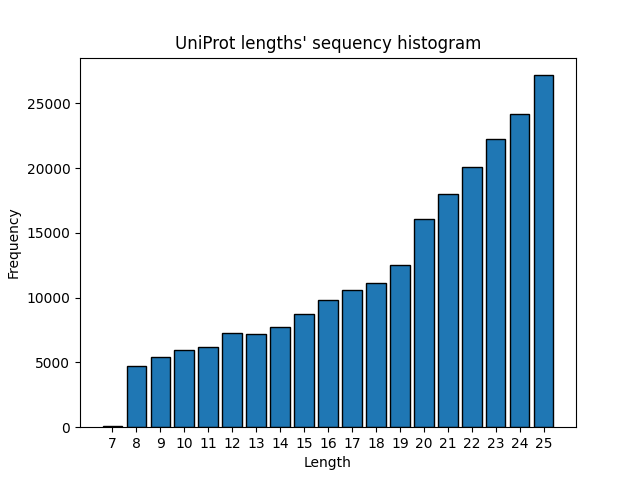
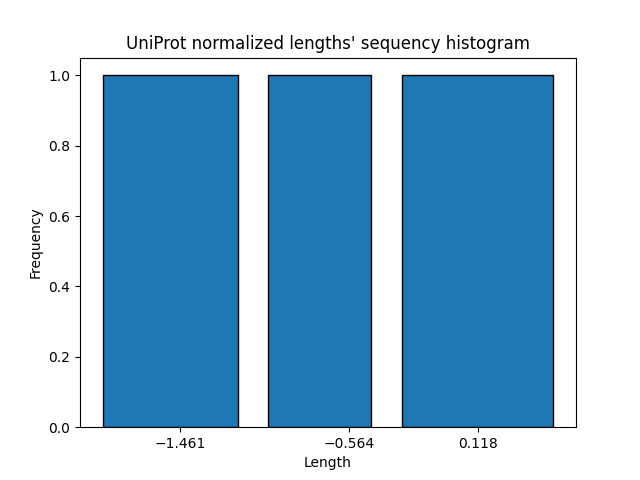
debugging

diff --git a/monitoring.py b/monitoring.py
@@ -176,8 +176,8 @@ def report_sequence_char_test(
     # Use a mask to find where the values are zero
     zero_mask_true = seq_true == 0
     zero_mask_pred = seq_pred == 0
-    print(f'seq_pred shape = {seq_pred.shape}')
-    print(f'seq_true shape = {seq_true.shape}')
+    # print(f'seq_pred shape = {seq_pred.shape}')
+    # print(f'seq_true shape = {seq_true.shape}')
     # Find the index of the first zero for each row
     len_true = np.argmin(seq_true, axis=0)
     len_pred = np.argmin(seq_pred, axis=0)

diff --git a/data/dataset.py b/data/dataset.py
@@ -321,7 +321,7 @@ class AMPDataManager:
     
 def plot_hist_lengths(data):
     unique_values = np.unique(data)
-
+    print(f'unique_values = unique_values')
     bin_edges = np.concatenate([unique_values - 0.5, [unique_values[-1] + 0.5]])
 
     plt.hist(data, bins=bin_edges, edgecolor='black', rwidth=0.8)
